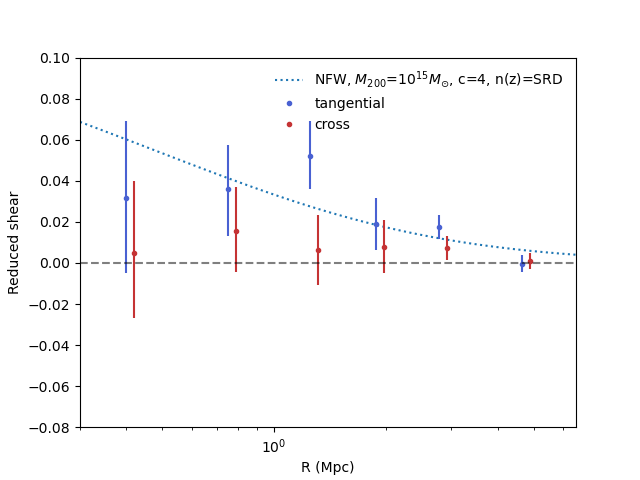
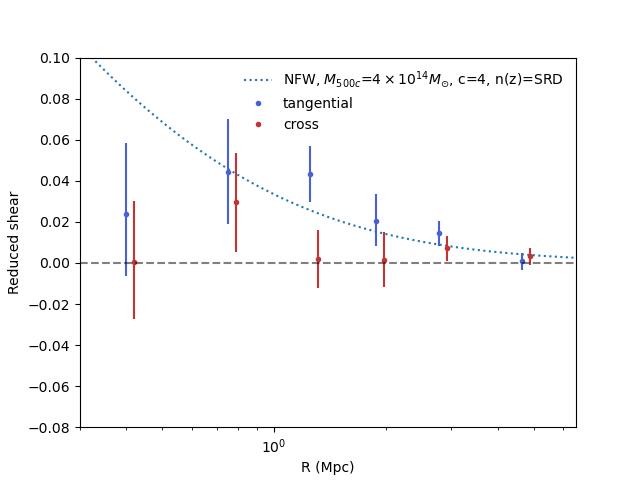
finish draft

diff --git a/index.md b/index.md
@@ -15,42 +15,48 @@ The Rubin ComCam observing campaign conducted at the end of 2024 targeted seven
 fields, including the low ecliptic latitude Rubin SV 38 7 field. This field
 hosts the Abell 360 galaxy cluster, an intermediate-mass cluster at redshift
 $z = 0.22$, which we use as a commissioning case study to demonstrate Rubin’s
-capabilities for weak lensing analyses of galaxy clusters. This technote
-presents the lensing shear profile of the Abell 360 cluster as measured with
-the AnaCal pipeline. The analysis includes source selection, masking, and shear
-estimation steps, serving as an end-to-end demonstration of AnaCal’s
-performance on early ComCam data.
+capabilities for weak lensing analyses of galaxy clusters.
+
+This technote is one part of a series studying Abell 360 in order to both
+stress test the commissioning camera and demonstrate the technical capabilities
+of the Vera Rubin Observatory. We study the quality of the PSF modeling and
+impact it can have on cluster WL in {cite}`SITCOMTN-161`, implementation of
+cell-based coadds and subsequent use for Metadetect {cite:p}`metaDet_LSST2023`
+in {cite}`SITCOMTN-162`, photometric calibration in _insert here_, use of
+Anacal {cite:p}`Anacal_Li2025` to produce a cluster shear profile in
+{cite}`SITCOMTN-164`, and background subtraction in this field and Fornax in
+_insert here_.
 
 ## AnaCal Shear Estimation
 
-AnaCal analytical framework to derive the shear response of galaxy shape, flux,
-detection and selection processes, offering a precise and generalizable
+AnaCal is an analytical framework to derive the shear response of galaxy shape,
+flux, detection and selection processes, offering a precise and generalizable
 approach to characterizing how weak gravitational lensing affects measurements
 from astronomical images. Instead of relying on numerical shearing or image
 simulations, the method starts from first principles by analytically computing
-how each pixel in an image responds to an applied shear after deconvolution and
-reconvolution with a Gaussian smoothing kernel {cite}`Anacal_Li2023`. This
-pixel-level shear response captures the fundamental transformation properties
-of the image under lensing distortions.
+how each pixel value in an image responds to an applied shear after
+deconvolution and reconvolution with a Gaussian smoothing kernel
+{cite}`Anacal_Li2023`. This pixel-level shear response captures the fundamental
+transformation properties of the image under lensing distortions.
 
 Building on this, the framework then develops a way to propagate pixel-level
 shear responses to derived quantities---such as flux, moments, ellipticities,
-detection or selection--that are calculated as functions of the pixels. To do
+detection or selection---that are calculated as functions of the pixels. To do
 this systematically, the method introduces a mathematical formalism based on
-quintuple numbers {cite}`Anacal_Li2026`, a structure defined by the authors as
-a commutative ring tailored for tracking shear derivatives up to second order.
-Each quintuple encodes not just the value of a quantity, but also its first and
-second derivatives with respect to shear, enabling symbolic propagation of
-shear responses through arbitrary algebraic operations.
+quintuple numbers {cite}`Anacal_Li2026`, a commutative ring to track shear
+response in the image processing. Each quintuple encodes not just the value of
+a quantity, but also its first-order derivatives with respect to shear,
+enabling propagation of shear responses through arbitrary differentiable
+algebraic operations.
 
 To address noise bias, the method incorporates a "renoise" correction scheme.
 The idea is to construct a "renoised" image by adding a pure noise
-field---drawn from the same noise distribution as the original image but
-rotated by 90 degrees---to the exposure. This rotation symmetrizes the noise
-contribution under shear distortion and allows the authors to analytically
-derive the correction term for noise bias in the shear response
-{cite}`Anacal_Li2025`. The resulting correction is not only accurate but avoids
-the need for noisy simulations, maintaining the fully analytical nature of the
+field---drawn from the same image noise distribution as the original image but
+rotated by 90 degrees. This rotation symmetrizes the noise contribution under
+shear distortion and allows the authors to analytically derive the correction
+term for noise bias in the shear response {cite}`Anacal_Li2025`. The resulting
+correction is not only accurate but avoids the need for calibration of noise
+bias with external simulations, maintaining the fully analytical nature of the
 shear response pipeline.
 
 
@@ -58,24 +64,129 @@ shear response pipeline.
 ```{figure} _static/exposure.png
 :name: exposure
 
-Coadd image of tract 10463, patch 61, before (left) and after (right) masking
-the bright stars.
+Coadd $i$-band image of tract 10463, patch 61, before (left) and after (right)
+masking the bright stars.
 ```
+To derive the pixel-level shear response following {cite}`Anacal_Li2023`, each
+coadd image is first deconvolved by its native PSF and then reconvolved with a
+Gaussian PSF using the Fast Fourier Transform (FFT). The target PSF size is set
+to be larger than the native PSF to ensure the image processing pipeline is
+stable. To prevent contamination from saturated pixels and artifacts around
+bright stars during the convolution, we mask these regions prior to processing.
+As illustrated in {numref}`exposure`, saturated stars are masked and set to
+zero using circular regions, with the mask radius visually chosen to encompass
+both the saturated cores and surrounding artifacts.
+
+### AnaCal Shape Catalog
+
+The shape catalog was generated using xlens version
+[v0.5.3](https://github.com/mr-superonion/xlens/tree/v0.5.3), and the task
+along with its configuration is summarized below.
+```
+AnacalDetectTask:
+  class: xlens.process_pipe.anacal_detect.AnacalDetectPipe
+  config:
+    anacal.sigma_arcsec: 0.5
+    anacal.badMaskPlanes = [
+        "BAD",
+        "CR",
+        "CROSSTALK",
+        "NO_DATA",
+        "REJECTED",
+        "SAT",
+        "SUSPECT",
+        "UNMASKEDNAN",
+        "SENSOR_EDGE",
+        "STREAK",
+        "VIGNETTED",
+        "INTRP",
+        "EDGE",
+        "CLIPPED",
+        "INEXACT_PSF",
+    ]
+    anacal.do_noise_bias_correction: True
+```
+The 1-sigma size of the target Gaussian PSF is set to $0.5$ arcseconds,
+corresponding to a full width at half maximum (FWHM) of 1.16 arcseconds. In
+addition to masking regions near saturated bright stars, pixels flagged by any
+of the anacal.badMaskPlanes are set to zero prior to deconvolution to
+suppress artifacts.
+
+The pipeline is run on $i$-band coadd images, beginning with a 5-sigma source
+detection performed after smoothing the image with the target Gaussian kernel.
+Flux and shape measurements are then carried out for each detected source.
+
+For the results presented in this technote, we adopt the flux from Gaussian
+model fitting as the fiducial galaxy flux (denoted as $F$). For shape
+measurements ($e_1$, $e_2$) and trace radius ($M_2$), we use the FPFS
+ellipticity and trace radius derived using fixed-kernel Shapelets {cite}`FPFS1,
+FPFS2, FPFS3`. Each of these quantities has a corresponding shear response,
+denoted as $\frac{\partial F}{\partial g_{1,2}}$, $\frac{\partial
+e_{1,2}}{\partial g_{1,2}}$, and $\frac{\partial m_2}{\partial g_{1,2}}$. The
+shear is then estimated by
+```{math}
+\hat{\gamma}_1 &= \langle e_1 \rangle \bigg/
+    \left\langle \frac{\partial e_1}{\partial \gamma_1} \right\rangle\,,\\
+\hat{\gamma}_2 &= \langle e_2 \rangle \bigg/
+    \left\langle \frac{\partial e_2}{\partial \gamma_2} \right\rangle\,.
+```
+Additionally, the AnaCal flux is defined as $\textrm{mag} = Z -
+2.5\log_{10}(F)$, where $Z$ refers to the magnitude zero point.
+
+The following selection is applied to the catalog to select bright,
+well-resolved galaxies
+
+```{table} AnaCal cuts
+:widths: auto
+:align: center
+:name: sel_table
+| Column |
+| ------ |
+| mag $\leq$ 23.5 |
+| $M_2$ $\geq$ 0.05 |
+```
+The shear-dependent biases caused by the selection is estimated and corrected
+using the shear response of Gaussian flux and trace radius.
 
 ### Match to DM catalog
 
 ```{figure} _static/magdiff.png
 :name: magdiff
-Magnitude difference between DM and AnaCal. Galaxies are, on average, 0.05
-magnitudes fainter in AnaCal compared to DM measurements.
+Magnitude difference between DM (CModel) and AnaCal. Galaxies are, on average,
+0.05 magnitudes fainter in AnaCal compared to DM measurements.
 ```
+
+To exclude member galaxies of Abell 360, we apply the same color and
+photometric redshift cuts as described in {cite}`SITCOMTN-163`, following a
+cross-match between the AnaCal detections and the DM catalog. For each AnaCal
+detection, we identify the nearest DM galaxy and retain matches with
+separations less than $1.5$ arcseconds. {numref}`magdiff` shows the histogram of
+the magnitude differences between the CModel flux from the DM pipeline and the
+Gaussian flux from AnaCal. On average, galaxies appear approximately $0.05$
+magnitudes fainter in the AnaCal catalog, due to the Gaussian flux measurement
+capturing less of the total light compared to CModel.
 
 ### Shear Profile
 
+The resulting shear profile is shown in {numref}`shear_profile`. It is computed
+using galaxy shapes and their shear responses, binned into six evenly spaced
+radial bins spanning from 0.35 Mpc to 6.5 Mpc. The error bars represent 68%
+confidence intervals, estimated via bootstrap resampling within each radial
+bin, ordered from smallest to largest separation.
+
 ```{figure} _static/shear_profile.png
 :name: shear_profile
-Tangential and cross shear profile for Abell 360 cluster.
+The reduced shear profile around A360 for both tangential (blue) and cross
+(red) shear measurements, using the cuts described throughout the technote.
+Both measured profiles have 68% confidence intervals.
 ```
+The theoretical shear profile is generated using the Cluster Lensing Mass
+Modeling (CLMM) code {cite:p}`clmm`. This model serves as a rough reference and
+is not fitted to the calibrated shear measurements. It assumes a
+Navarro-Frenk-White (NFW) halo with a cluster mass of $M_{500c} = 4 \times
+10^{14}, M_\odot$ {cite:p}`a360_mass` and a concentration parameter of 4.. The
+source redshift distribution is adopted from the LSST Dark Energy Science
+Collaboration’s Science Requirements Document (SRD) {cite:p}`desc_srd`.
 
 # References
 
